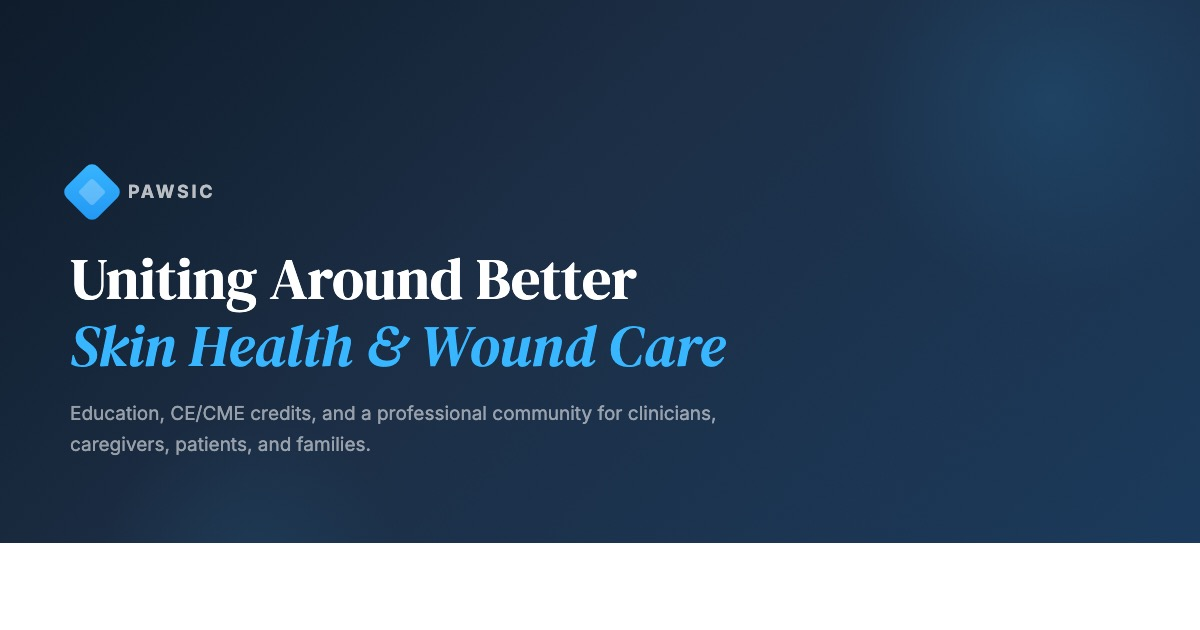
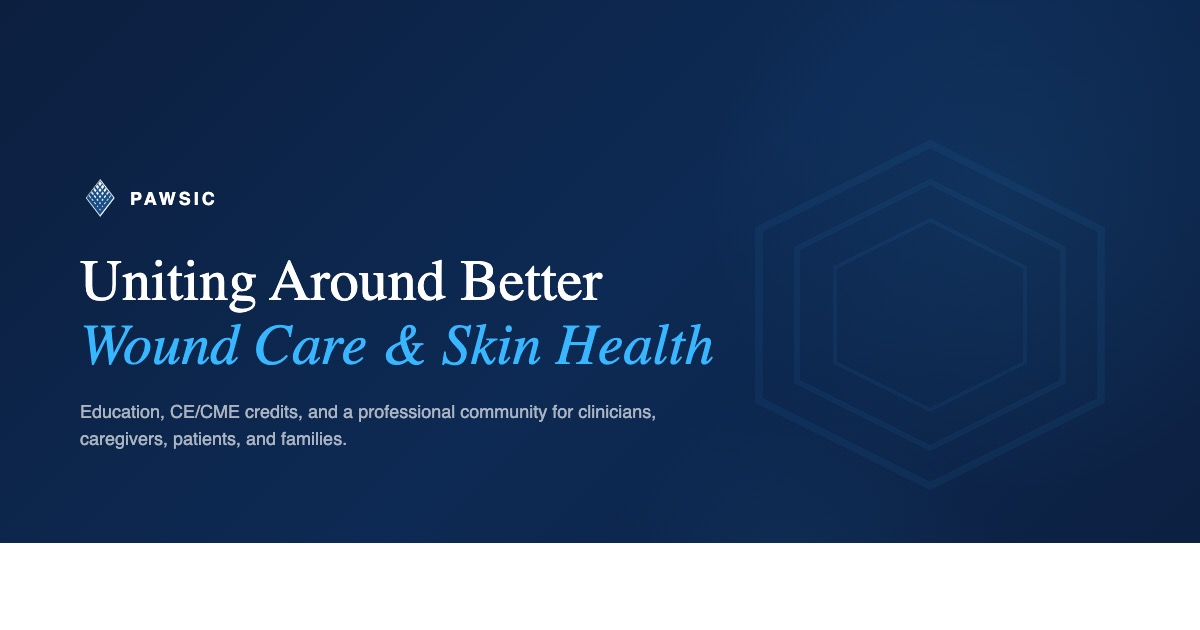
Production deploy: 2026-04-02 21:09

diff --git a/index.html b/index.html
@@ -4,7 +4,7 @@
   <meta charset="UTF-8">
   <meta name="viewport" content="width=device-width, initial-scale=1.0">
   <title>PAWSIC | Post-Acute Wound & Skin Integrity Council</title>
-  <meta name="description" content="PAWSIC is the council for everyone who cares about skin health and wound care. Practical education, CE &amp; CME, and community for clinicians, caregivers, patients, and families.">
+  <meta name="description" content="PAWSIC is the council for everyone who cares about wound care and skin health. Practical education, CE &amp; CME, and community for clinicians, caregivers, patients, and families.">
   <meta property="og:title" content="PAWSIC | Post-Acute Wound & Skin Integrity Council">
   <meta property="og:description" content="Uniting wound care professionals through education, community, and advocacy.">
   <meta property="og:url" content="https://pawsic.org">
@@ -46,7 +46,7 @@
       "@type": "WebPage",
       "name": "PAWSIC | Post-Acute Wound and Skin Integrity Council",
       "url": "https://pawsic.org/",
-      "description": "PAWSIC is the council for everyone who cares about skin health and wound care. Practical education, CE and CME, and community for clinicians, caregivers, patients, and families.",
+      "description": "PAWSIC is the council for everyone who cares about wound care and skin health. Practical education, CE and CME, and community for clinicians, caregivers, patients, and families.",
       "publisher": {
         "@type": "Organization",
         "name": "PAWSIC"
@@ -147,8 +147,8 @@
       <div class="hero-bg-pattern"></div>
       <div class="hero-grain"></div>
       <div class="container">
-        <h1 class="reveal reveal-delay-1">Uniting Around Better <em>Skin Health &amp; Wound Care</em></h1>
-        <p class="hero-subtitle reveal reveal-delay-2">PAWSIC is the council for everyone who cares about skin health and wound care. Clinicians, caregivers, patients, families, industry partners, and students are all welcome. We provide practical education, CE &amp; CME credits, and a professional community to improve skin health and wound care everywhere.</p>
+        <h1 class="reveal reveal-delay-1">Uniting Around Better <em>Wound Care Wound Care &amp; Skin Healthamp; Skin Health</em></h1>
+        <p class="hero-subtitle reveal reveal-delay-2">PAWSIC is the council for everyone who cares about wound care and skin health. Clinicians, caregivers, patients, families, industry partners, and students are all welcome. We provide practical education, CE &amp; CME credits, and a professional community to improve wound care and skin health everywhere.</p>
         <div class="hero-cta-group reveal reveal-delay-3">
           <a href="https://memberships.pawsic.org/register/free/" class="btn-primary btn-lg" target="_blank" rel="noopener noreferrer">
             Join PAWSIC Free <span class="btn-arrow">&rarr;</span>
@@ -279,18 +279,18 @@
         <div class="section-header reveal">
           <span class="section-tag">Who We Serve</span>
           <h2><em>Who</em> We Serve</h2>
-          <p>PAWSIC brings together the full skin health and wound care team. No matter your role, if you care about skin health and wound care, PAWSIC is your home.</p>
+          <p>PAWSIC brings together the full wound care and skin health team. No matter your role, if you care about wound care and skin health, PAWSIC is your home.</p>
         </div>
         <div class="audience-grid reveal reveal-delay-1">
           <div class="audience-card">
             <div class="audience-icon"><svg aria-hidden="true" width="24" height="24" viewBox="0 0 24 24" fill="none" stroke="currentColor" stroke-width="1.5"><path d="M16 21v-2a4 4 0 0 0-4-4H6a4 4 0 0 0-4 4v2"/><circle cx="9" cy="7" r="4"/><path d="M22 21v-2a4 4 0 0 0-3-3.87"/><path d="M16 3.13a4 4 0 0 1 0 7.75"/></svg></div>
             <h3>Caregivers &amp; CNAs</h3>
-            <p>Frontline caregivers and certified nursing assistants providing hands-on skin health and wound care.</p>
+            <p>Frontline caregivers and certified nursing assistants providing hands-on wound care and skin health.</p>
           </div>
           <div class="audience-card">
             <div class="audience-icon"><svg aria-hidden="true" width="24" height="24" viewBox="0 0 24 24" fill="none" stroke="currentColor" stroke-width="1.5"><path d="M22 12h-4l-3 9L9 3l-3 9H2"/></svg></div>
             <h3>Nurses &amp; Wound Clinicians</h3>
-            <p>RNs, LPNs, and wound care specialists dedicated to skin health and wound care.</p>
+            <p>RNs, LPNs, and wound care specialists dedicated to wound care and skin health.</p>
           </div>
           <div class="audience-card">
             <div class="audience-icon"><svg aria-hidden="true" width="24" height="24" viewBox="0 0 24 24" fill="none" stroke="currentColor" stroke-width="1.5"><path d="M12 22s8-4 8-10V5l-8-3-8 3v7c0 6 8 10 8 10z"/></svg></div>
@@ -300,17 +300,17 @@
           <div class="audience-card">
             <div class="audience-icon"><svg aria-hidden="true" width="24" height="24" viewBox="0 0 24 24" fill="none" stroke="currentColor" stroke-width="1.5"><circle cx="12" cy="12" r="10"/><path d="M8 14s1.5 2 4 2 4-2 4-2"/><line x1="9" y1="9" x2="9.01" y2="9"/><line x1="15" y1="9" x2="15.01" y2="9"/></svg></div>
             <h3>Therapists (PT, OT, SLP)</h3>
-            <p>Physical, occupational, and speech-language therapists involved in skin health and wound care.</p>
+            <p>Physical, occupational, and speech-language therapists involved in wound care and skin health.</p>
           </div>
           <div class="audience-card">
             <div class="audience-icon"><svg aria-hidden="true" width="24" height="24" viewBox="0 0 24 24" fill="none" stroke="currentColor" stroke-width="1.5"><path d="M3 9l9-7 9 7v11a2 2 0 0 1-2 2H5a2 2 0 0 1-2-2z"/><polyline points="9 22 9 12 15 12 15 22"/></svg></div>
             <h3>Healthcare Leaders &amp; Operators</h3>
-            <p>Leadership across care settings committed to improving skin health and wound care outcomes.</p>
+            <p>Leadership across care settings committed to improving wound care and skin health outcomes.</p>
           </div>
           <div class="audience-card">
             <div class="audience-icon"><svg aria-hidden="true" width="24" height="24" viewBox="0 0 24 24" fill="none" stroke="currentColor" stroke-width="1.5"><path d="M18 8h1a4 4 0 0 1 0 8h-1"/><path d="M2 8h16v9a4 4 0 0 1-4 4H6a4 4 0 0 1-4-4V8z"/><line x1="6" y1="1" x2="6" y2="4"/><line x1="10" y1="1" x2="10" y2="4"/><line x1="14" y1="1" x2="14" y2="4"/></svg></div>
             <h3>Pharmacists, Dietitians &amp; Specialists</h3>
-            <p>Allied health professionals supporting skin health and wound care across settings.</p>
+            <p>Allied health professionals supporting wound care and skin health across settings.</p>
           </div>
           <div class="audience-card">
             <div class="audience-icon"><svg aria-hidden="true" width="24" height="24" viewBox="0 0 24 24" fill="none" stroke="currentColor" stroke-width="1.5"><rect x="2" y="7" width="20" height="14" rx="2" ry="2"/><path d="M16 21V5a2 2 0 0 0-2-2h-4a2 2 0 0 0-2 2v16"/></svg></div>
@@ -320,7 +320,7 @@
           <div class="audience-card">
             <div class="audience-icon"><svg aria-hidden="true" width="24" height="24" viewBox="0 0 24 24" fill="none" stroke="currentColor" stroke-width="1.5"><path d="M20.84 4.61a5.5 5.5 0 0 0-7.78 0L12 5.67l-1.06-1.06a5.5 5.5 0 0 0-7.78 7.78l1.06 1.06L12 21.23l7.78-7.78 1.06-1.06a5.5 5.5 0 0 0 0-7.78z"/></svg></div>
             <h3>Patients &amp; Their Families</h3>
-            <p>Patients navigating skin health and wound care, and the families who support them.</p>
+            <p>Patients navigating wound care and skin health, and the families who support them.</p>
           </div>
         </div>
       </div>
@@ -355,7 +355,7 @@
               <div class="why-highlight-item">
                 <div class="why-check"><svg aria-hidden="true" width="18" height="18" viewBox="0 0 24 24" fill="none" stroke="currentColor" stroke-width="2.5"><polyline points="20 6 9 17 4 12"/></svg></div>
                 <div>
-                  <strong>Bring together everyone</strong> involved in skin health and wound care
+                  <strong>Bring together everyone</strong> involved in wound care and skin health
                 </div>
               </div>
               <div class="why-highlight-item">

diff --git a/images/_pawsic-og-generator.html b/images/_pawsic-og-generator.html
@@ -1,0 +1,93 @@
+<!DOCTYPE html>
+<html>
+<head>
+<meta charset="UTF-8">
+<style>
+  * { margin: 0; padding: 0; box-sizing: border-box; }
+  body {
+    width: 1200px;
+    height: 630px;
+    overflow: hidden;
+    font-family: 'Inter', sans-serif;
+    background: linear-gradient(135deg, #0C1F3F 0%, #0d2a54 50%, #0C1F3F 100%);
+    display: flex;
+    align-items: center;
+    justify-content: flex-start;
+    padding: 64px 80px;
+    position: relative;
+  }
+  @import url('https://fonts.googleapis.com/css2?family=DM+Serif+Display:ital@0;1&family=Inter:wght@400;500;600;700;800&display=swap');
+  .bg-circle {
+    position: absolute;
+    border-radius: 50%;
+    background: radial-gradient(circle, rgba(56,182,255,0.08) 0%, transparent 70%);
+  }
+  .bg-circle-1 { width: 600px; height: 600px; right: -100px; top: -100px; }
+  .bg-circle-2 { width: 400px; height: 400px; right: 200px; bottom: -150px; background: radial-gradient(circle, rgba(56,182,255,0.05) 0%, transparent 70%); }
+  .content { position: relative; z-index: 2; max-width: 680px; }
+  .logo-row {
+    display: flex;
+    align-items: center;
+    gap: 10px;
+    margin-bottom: 32px;
+  }
+  .logo-diamond {
+    width: 40px;
+    height: 40px;
+  }
+  .logo-name {
+    font-family: 'Inter', sans-serif;
+    font-size: 18px;
+    font-weight: 800;
+    color: #fff;
+    letter-spacing: 3px;
+  }
+  h1 {
+    font-family: 'DM Serif Display', serif;
+    font-size: 58px;
+    font-weight: 400;
+    color: #ffffff;
+    line-height: 1.1;
+    margin-bottom: 20px;
+  }
+  h1 em {
+    font-style: italic;
+    color: #38B6FF;
+  }
+  .subtitle {
+    font-family: 'Inter', sans-serif;
+    font-size: 18px;
+    color: rgba(255,255,255,0.65);
+    line-height: 1.5;
+    font-weight: 400;
+  }
+  .right-decoration {
+    position: absolute;
+    right: 80px;
+    top: 50%;
+    transform: translateY(-50%);
+    opacity: 0.06;
+    z-index: 1;
+  }
+</style>
+</head>
+<body>
+  <div class="bg-circle bg-circle-1"></div>
+  <div class="bg-circle bg-circle-2"></div>
+
+  <svg class="right-decoration" width="380" height="380" viewBox="0 0 100 100">
+    <polygon points="50,5 95,27.5 95,72.5 50,95 5,72.5 5,27.5" fill="none" stroke="#38B6FF" stroke-width="2"/>
+    <polygon points="50,15 85,32.5 85,67.5 50,85 15,67.5 15,32.5" fill="none" stroke="#38B6FF" stroke-width="1.5"/>
+    <polygon points="50,25 75,37.5 75,62.5 50,75 25,62.5 25,37.5" fill="none" stroke="#38B6FF" stroke-width="1"/>
+  </svg>
+
+  <div class="content">
+    <div class="logo-row">
+      <img src="pawsic-diamond.png" class="logo-diamond" alt="PAWSIC">
+      <span class="logo-name">PAWSIC</span>
+    </div>
+    <h1>Uniting Around Better<br><em>Wound Care &amp; Skin Health</em></h1>
+    <p class="subtitle">Education, CE/CME credits, and a professional community for clinicians,<br>caregivers, patients, and families.</p>
+  </div>
+</body>
+</html>

diff --git a/who-is-pawsic.html b/who-is-pawsic.html
@@ -177,7 +177,7 @@
               <svg width="28" height="28" viewBox="0 0 24 24" fill="none" stroke="currentColor" stroke-width="1.5"><path d="M2 3h6a4 4 0 0 1 4 4v14a3 3 0 0 0-3-3H2z"/><path d="M22 3h-6a4 4 0 0 0-4 4v14a3 3 0 0 1 3-3h7z"/></svg>
             </div>
             <div class="wip-glance-label">Focus</div>
-            <div class="wip-glance-value">Skin Health &amp; Wound Care</div>
+            <div class="wip-glance-value">Wound Care &amp; Skin Health</div>
           </div>
           <div class="wip-glance-card">
             <div class="wip-glance-icon">

diff --git a/who-is-pawsic/index.html b/who-is-pawsic/index.html
@@ -177,7 +177,7 @@
               <svg width="28" height="28" viewBox="0 0 24 24" fill="none" stroke="currentColor" stroke-width="1.5"><path d="M2 3h6a4 4 0 0 1 4 4v14a3 3 0 0 0-3-3H2z"/><path d="M22 3h-6a4 4 0 0 0-4 4v14a3 3 0 0 1 3-3h7z"/></svg>
             </div>
             <div class="wip-glance-label">Focus</div>
-            <div class="wip-glance-value">Skin Health &amp; Wound Care</div>
+            <div class="wip-glance-value">Wound Care &amp; Skin Health</div>
           </div>
           <div class="wip-glance-card">
             <div class="wip-glance-icon">
